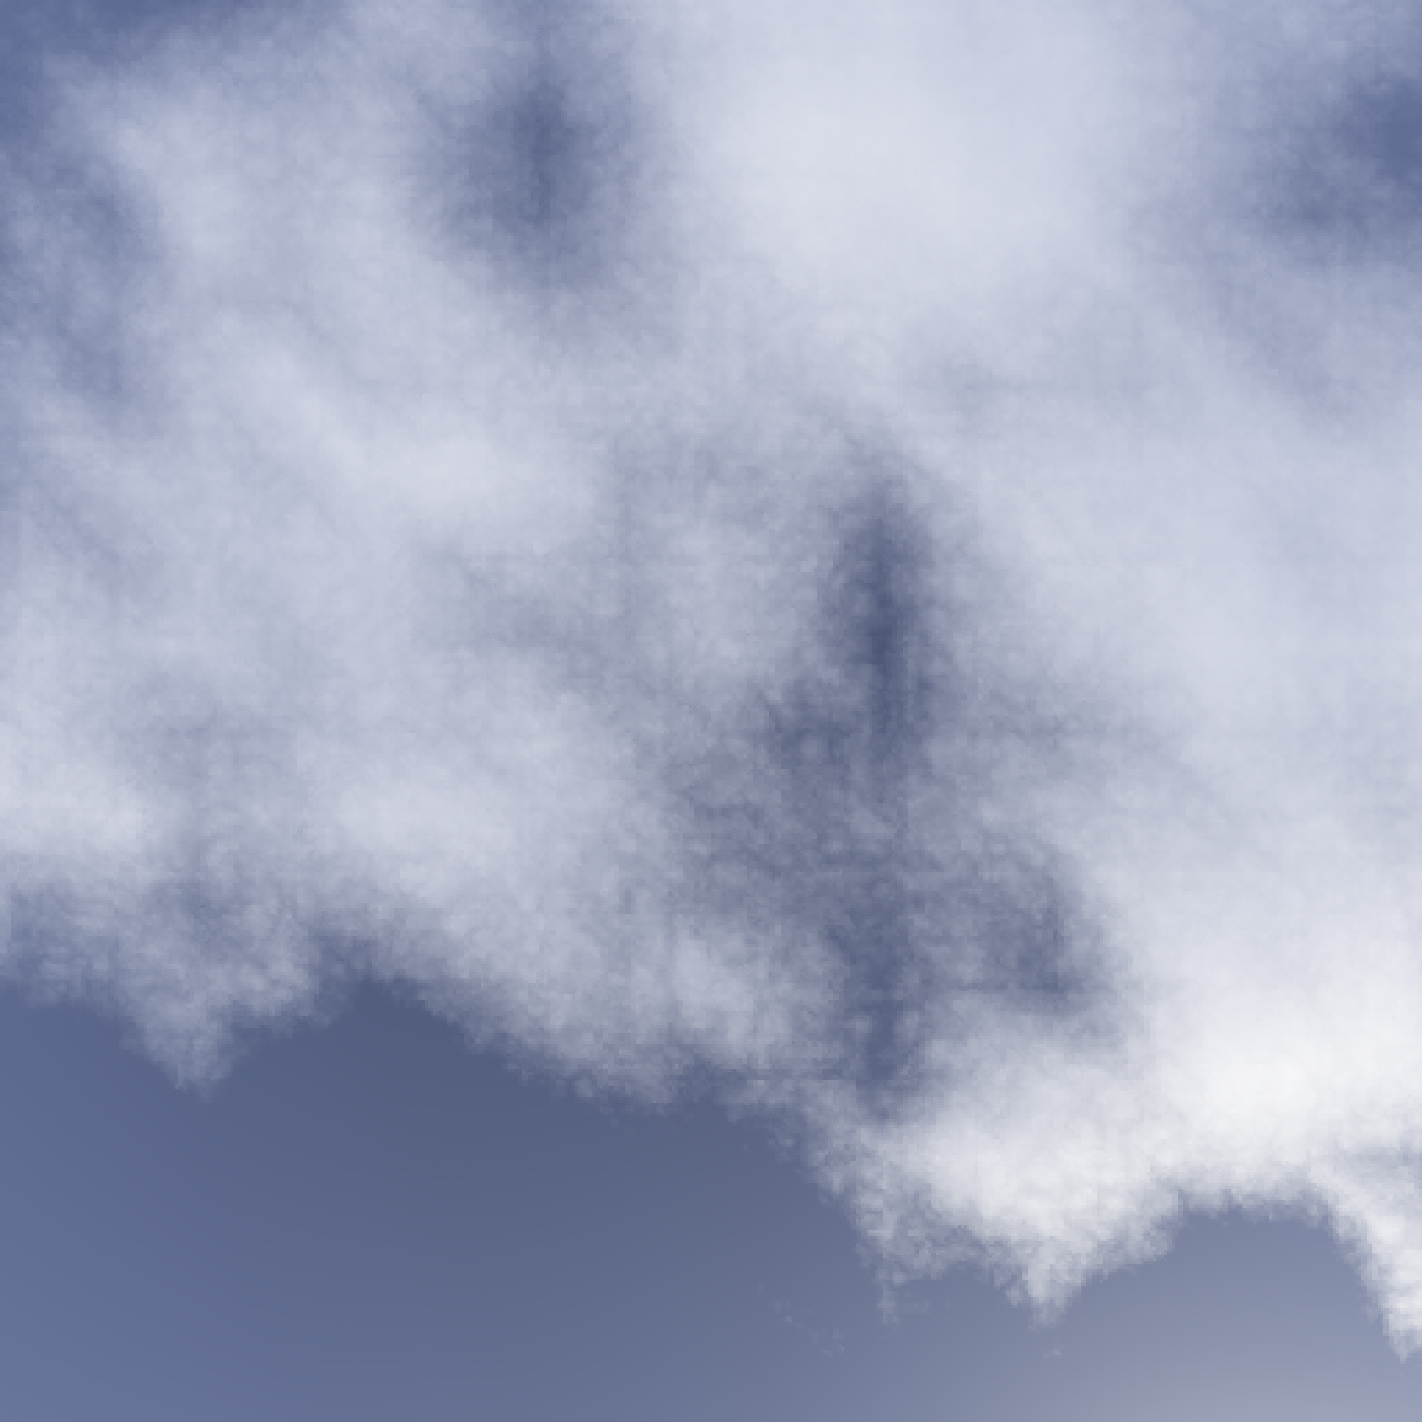
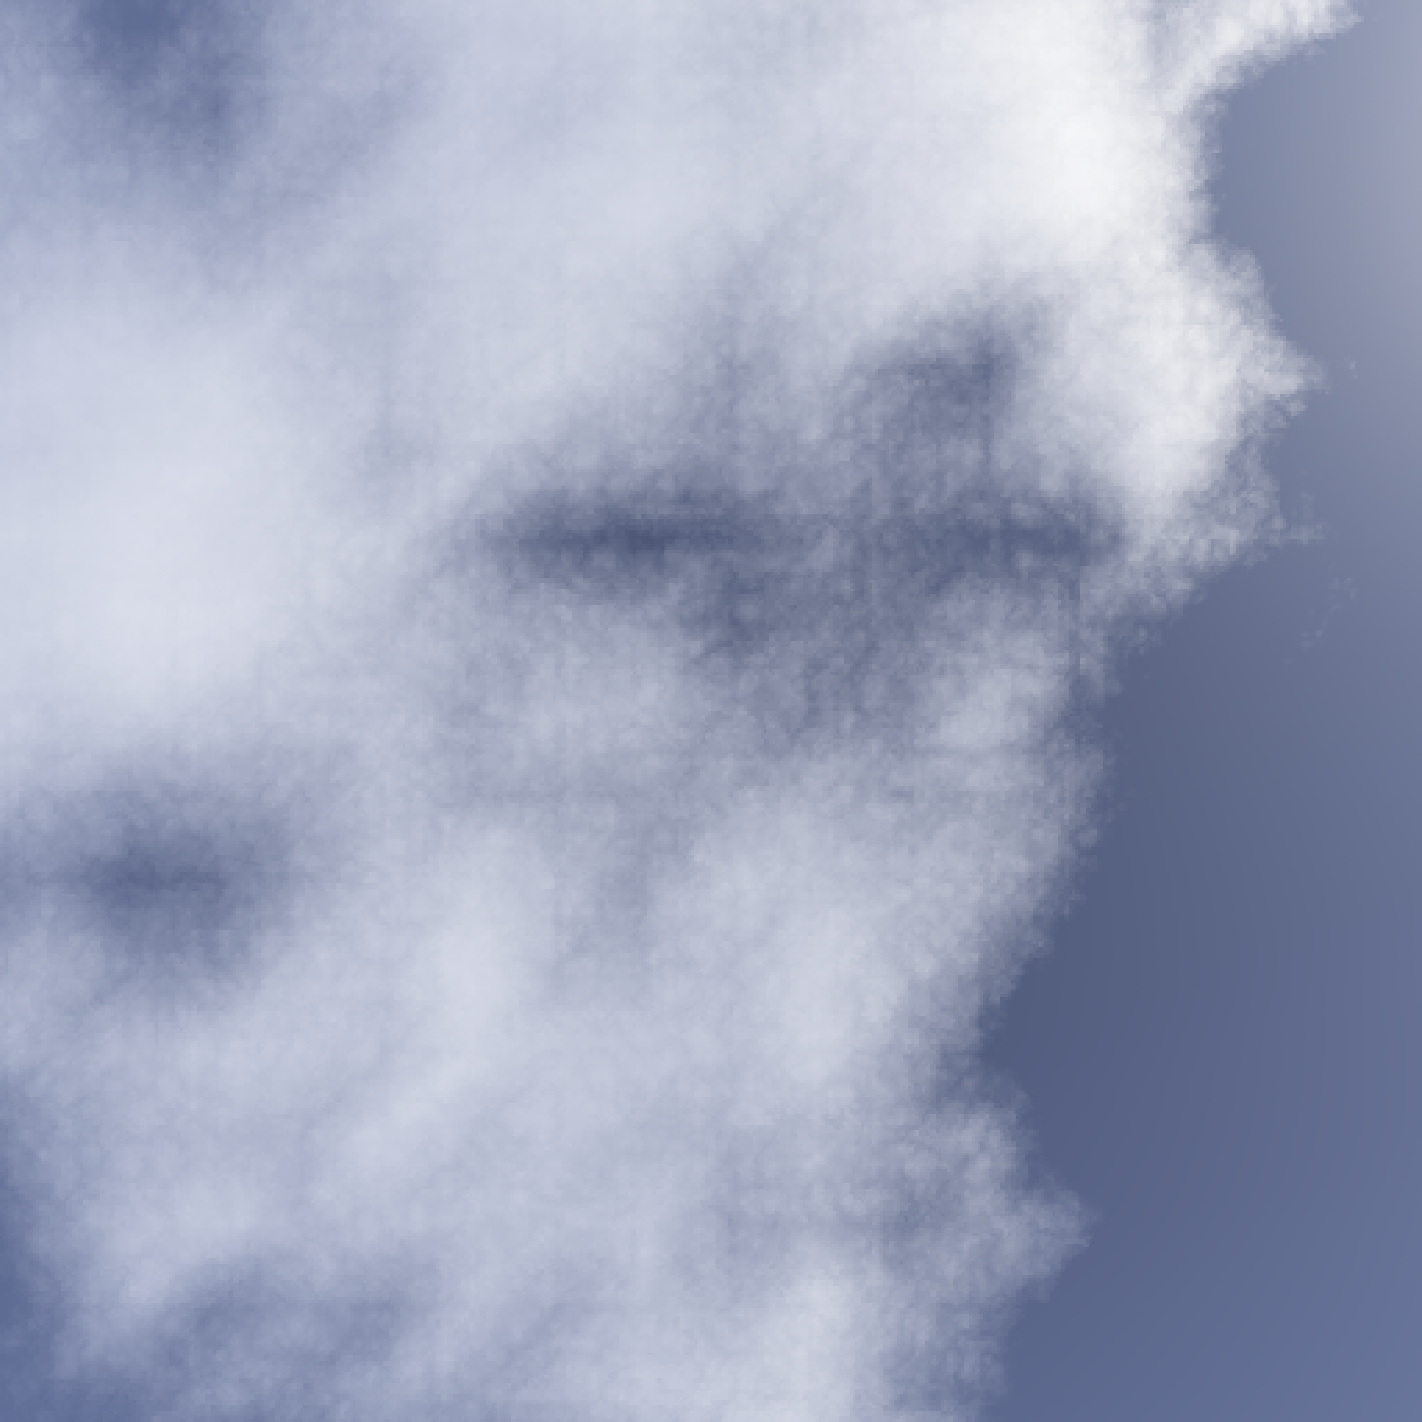
reflection funktioniert

diff --git a/src/de/sebastiankings/renderengine/shaders/EntityShaderProgram.java b/src/de/sebastiankings/renderengine/shaders/EntityShaderProgram.java
@@ -1,6 +1,7 @@
 package de.sebastiankings.renderengine.shaders;
 
 import org.joml.Matrix4f;
+import org.joml.Vector3f;
 
 import de.sebastiankings.renderengine.entities.Material;
 import de.sebastiankings.renderengine.entities.PointLight;
@@ -28,6 +29,7 @@ public class EntityShaderProgram extends ShaderProgram {
 
 	private int location_textureSampler;
 	private int location_textureReflection;
+	private int location_camPos;
 	
 	public EntityShaderProgram(String vertexPath, String fragmentPath) {
 		super(vertexPath, fragmentPath);
@@ -63,6 +65,7 @@ public class EntityShaderProgram extends ShaderProgram {
 
 		location_textureSampler = super.getUniformLocation("textureSampler");
 		location_textureReflection = super.getUniformLocation("textureReflection");
+		location_camPos=super.getUniformLocation("camPosition");
 	}
 
 	public void loadMaterial(Material mat){
@@ -94,6 +97,10 @@ public class EntityShaderProgram extends ShaderProgram {
 	
 	public void loadProjectionMatrix(Matrix4f projection){
 		super.loadMatrix(location_projectionMatrix, projection);
+	}
+	
+	public void loadCamPosition(Vector3f camera){
+		super.loadVector(location_camPos, camera);
 	}
 
 }

diff --git a/src/de/sebastiankings/renderengine/entities/EntityType.java b/src/de/sebastiankings/renderengine/entities/EntityType.java
@@ -2,7 +2,7 @@ package de.sebastiankings.renderengine.entities;
 
 public enum EntityType {
 
-	TRASHBIN("res/meshes/trashbin/", new EntityDimensions(10, 10, 10)), GUMBA("res/meshes/gumba/", new EntityDimensions(10, 10, 10)), LASER("res/meshes/laser/", new EntityDimensions(10, 10, 10)), SHIP("res/meshes/ship/", new EntityDimensions(10, 10, 10)), ENEMY("res/meshes/enemy/", new EntityDimensions(10, 10, 10)), FLOOR("res/meshes/floor/", new EntityDimensions(10, 10, 10));
+	TRASHBIN("res/meshes/trashbin/", new EntityDimensions(10, 10, 10)), GUMBA("res/meshes/gumba/", new EntityDimensions(10, 10, 10)), LASER("res/meshes/laser/", new EntityDimensions(100, 10, 100)), SHIP("res/meshes/ship/", new EntityDimensions(10, 10, 10)), ENEMY("res/meshes/enemy/", new EntityDimensions(10, 10, 10)), FLOOR("res/meshes/floor/", new EntityDimensions(10, 10, 10));
 
 	/**
 	 * Path to DataFolder

diff --git a/src/de/sebastiankings/renderengine/engine/OBJLoader.java b/src/de/sebastiankings/renderengine/engine/OBJLoader.java
@@ -68,7 +68,8 @@ public class OBJLoader {
 					currentEntity.addTextureCoord(texture);
 					// Normalen Eintrag
 				} else if (line.startsWith("vn ")) {
-					Vector3f normal = new Vector3f(Float.parseFloat(currentLine[1]), Float.parseFloat(currentLine[2]), Float.parseFloat(currentLine[3]));
+					Vector3f normal = new Vector3f(Float.parseFloat(currentLine[1]), Float.parseFloat(currentLine[2]),
+							Float.parseFloat(currentLine[3]));
 					currentEntity.addNormal(normal);
 					// ObjectName
 				} else if (line.startsWith("o ") || line.startsWith("g ")) {
